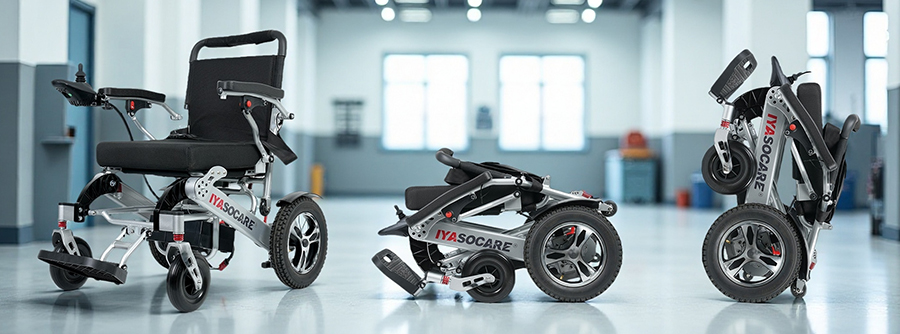
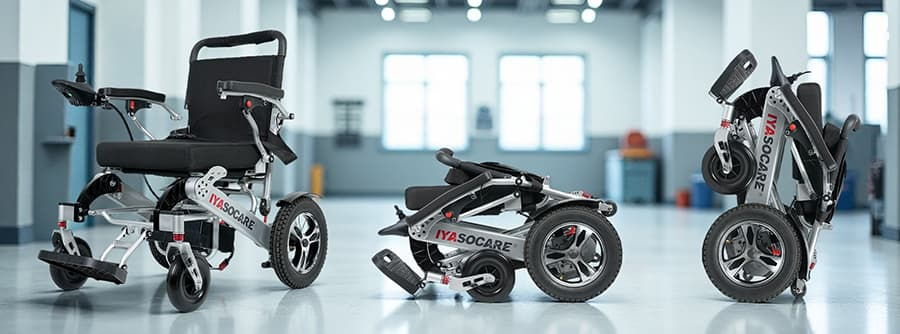
压缩图片

diff --git a/footer-.html b/footer-.html
@@ -1,0 +1,101 @@
+<div class="footer-area footer-bg">
+	<div class="container">
+		<div class="row">
+			<div class="col-lg-4 col-sm-6 mb-20-1199">
+				<div class="footer-inner">
+					<div class="flogo">
+						<a href="index.html"><img src="images/iyasocare.png" alt="logo"></a>
+					</div>
+					<p>Iyasocare delivers ISO/CE/TUV/CFS-certified ergonomic electric wheelchairs and mobility aids, providing OEM/ODM medical equipment to 80+ countries.</p>
+					<div class="footer-tags">
+						<h2>NAV</h2>
+						<a href="index.html">Home</a>
+						<a href="products.html">Products</a>
+						<a href="javascript:void(0);" target="_self">Services</a>
+						<a href="javascript:void(0);" target="_self">About Us</a>
+						<a href="javascript:void(0);" target="_self">News</a>
+						<span class="dis-non-1199"><a href="javascript:void(0);" target="_self">Blog</a></span>
+						<span class="dis-non-1199"><a href="javascript:void(0);" target="_self">Contact Us</a></span>
+					</div>
+				</div>
+			</div>
+			<div class="col-lg-2 col-sm-6 mb-20-1199">
+				<div class="f-location">
+					<h2><span>our</span> services</h2>
+					<ul class="f-location-links">
+						<li><a href="javascript:void(0);" target="_self">Choosing a doctor</a></li>
+						<li><a href="javascript:void(0);" target="_self">Primary medical care</a></li>
+						<li><a href="javascript:void(0);" target="_self">Discuss your doctor</a></li>
+						<li><a href="javascript:void(0);" target="_self">Client User Account</a></li>
+						<li><a href="javascript:void(0);" target="_self">Our Support Forum</a></li>
+						<li><a href="javascript:void(0);" target="_self">Our Help Center</a></li>
+					</ul>
+				</div>
+			</div>
+			<div class="col-lg-2 col-sm-6 mb-20-1199">
+				<div class="f-location">
+					<h2><span>Latest</span> News</h2>
+					<ul class="f-location-links">
+						<li><a href="javascript:void(0);" target="_self">Choosing a doctor</a></li>
+						<li><a href="javascript:void(0);" target="_self">Primary medical care</a></li>
+						<li><a href="javascript:void(0);" target="_self">Discuss your doctor</a></li>
+						<li><a href="javascript:void(0);" target="_self">Client User Account</a></li>
+						<li><a href="javascript:void(0);" target="_self">Our Support Forum</a></li>
+						<li><a href="javascript:void(0);" target="_self">Our Help Center</a></li>
+					</ul>
+				</div>
+			</div>
+			<div class="col-lg-4 col-sm-6 mb-20-1199">
+				<h2 class="mb-50"><span>Book</span> Appointment</h2>
+
+				<div class="appoinment-form appoinment-form-f zf-appoinment-form">
+					<div class="zf-form">
+						<div class="row">
+							<div class="zf-form-inputbox col-md-6">
+								<input type="text" name="name" placeholder="Full Name" id="zf-footer-name" maxlength="50" autocomplete="off" title="Please enter your name" required>
+								<div class="zf-tip zf-footer-name-tip"></div>
+							</div>
+							<div class="zf-form-inputbox col-md-6">
+								<input type="tel" name="tel" placeholder="Phone Number" id="zf-footer-tel" maxlength="20" autocomplete="off">
+								<div class="zf-tip zf-footer-tel-tip"></div>
+							</div>
+							<div class="zf-form-inputbox col-md-12">
+								<input type="email" name="email" placeholder="Email" id="zf-footer-email" maxlength="50" autocomplete="off" title="Please enter your email" required>
+								<div class="zf-tip zf-footer-email-tip"></div>
+							</div>
+							<div class="zf-form-inputbox col-md-12">
+								<textarea name="message" placeholder="Message" id="zf-footer-message" maxlength="1000" autocomplete="off"></textarea>
+								<div class="zf-tip zf-footer-message-tip"></div>
+							</div>
+						</div>
+						<input type="submit" name="submit" value="leave a message" id="zf-footer-button">
+						<div class="zf-tip zf-footer-check-tip"></div>
+					</div>
+					<div class="zf-sub-success zf-none zf-ajax-loader">
+						<div class="zf-sub-success-tip"></div>
+					</div>
+				</div>
+				<div class="zf-sub-error zf-none">
+					<div class="zf-sub-error-tip-box">
+						<div class="zf-sub-error-tip-close"></div>
+						<div class="zf-sub-error-tip-title">Tip:</div>
+						<div class="zf-sub-error-tip-icon"><i class="flaticon-zftip"></i></div>
+						<div class="zf-sub-error-tip">Oops! A tiny hiccup. Please check your entries or refresh to try again.</div>
+						<div class="zf-sub-error-contact-box">
+							Email us: 
+							<a href="mailto:sales@iyasocare.com?subject=Inquiry%20from%20iyasocare.cc&body=Hi%20Lily%20Miao%2C%0A%0AThis%20is%20" target="_self">
+							sales@iyasocare.com</a>;
+							<a href="https://wa.me/8618003386205?text=I%20am%20contacting%20from%20iyasocare.cc%20for%20inquiry" target="_self">WhatsApp</a>
+							/Call: <a href="tel:+8618003386205" target="_self">+86 18003386205</a>
+						</div>
+					</div>
+				</div>
+			</div>
+		</div>
+	</div>
+</div>
+<div class="footer-bottom">
+	<div class="container">
+		<p>© 2023 Chongqing Iyasocare Medical Co., Ltd. 重庆雅诗康医疗科技有限公司 版权所有</p>
+	</div>
+</div>

diff --git a/js/zf-load-footer.js b/js/zf-load-footer.js
@@ -1,17 +1,44 @@
-if (document.getElementById('zf-pro-footer-js')) {
-	fetch('../footer.html')
-		.then(response => response.text())
-		.then(html => {
-			document.getElementById('zf-pro-footer-js').innerHTML = html;
-		})
-		.catch(() => {});
-		// .catch(err => console.error('导航加载失败:', err));
-} else if (document.getElementById('zf-footer-js')) {
-	fetch('footer.html')
-		.then(response => response.text())
-		.then(html => {
-			document.getElementById('zf-footer-js').innerHTML = html;
-		})
-		.catch(() => {});
-		// .catch(err => console.error('导航加载失败:', err));
+function zfInsertFooter() {
+	const footerHtml = `
+		<div class="footer-bottom">
+			<div class="container">
+				<p>© 2025 Chongqing Iyasocare Medical Co., Ltd. 重庆雅诗康医疗科技有限公司 版权所有 MADE BY ZHAOFENG</p>
+			</div>
+		</div>
+	`;
+	
+	
+	if (document.getElementById('zf-pro-footer-js')) {
+		if (document.getElementById('zf-pro-footer-js').innerHTML.trim() == '') {
+			fetch('../footer.html')
+				.then(response => response.text())
+				.then(html => {
+					document.getElementById('zf-pro-footer-js').innerHTML = html;
+				})
+				// .catch(() => {});
+				.catch(
+					// err => console.error('导航加载失败:', err);
+					document.getElementById('zf-pro-footer-js').innerHTML = footerHtml;
+				);
+		}
+	} else if (document.getElementById('zf-footer-js')) {
+		if (document.getElementById('zf-footer-js').innerHTML.trim() == '') {
+			fetch('footer.html')
+				.then(response => response.text())
+				.then(html => {
+					document.getElementById('zf-footer-js').innerHTML = html;
+				})
+				// .catch(() => {});
+				.catch(
+					// err => console.error('导航加载失败:', err);
+					document.getElementById('zf-footer-js').innerHTML = footerHtml;
+				);
+		}
+	}
+	
 }
+
+zfInsertFooter();
+
+
+

diff --git a/js/script.js b/js/script.js
@@ -15,13 +15,12 @@
     /*------------------------------------------
         = HIDE PRELOADER
     -------------------------------------------*/
+	preloader();
     function preloader() {
         if($('.preloader').length) {
             $('.preloader').delay(100).fadeOut(500, function() {
-
                 //active wow
-                wow.init();
-
+                // wow.init();
             });
         }
     }
@@ -76,9 +75,9 @@
             $(".hero-slider").slick({
                 autoplay: true,
                 autoplaySpeed: 8000,
-                arrows: false,
-                prevArrow: '<i class="icofont-brand-jaguar slick-prev"></i>',
-                nextArrow: '<i class="icofont-long-arrow-right slick-next"></i>',
+                arrows: true,
+                prevArrow: '<i class="icofont icofont-long-arrow-left zf-slick-prev"></i>',
+                nextArrow: '<i class="icofont icofont-long-arrow-right zf-slick-next"></i>',
                 dots: false,
                 fade: true,
                 cssEase: 'linear',
@@ -493,7 +492,8 @@
     ==========================================================================*/
     $(window).on('load', function() {
 
-        preloader();
+        // preloader(); // 欢迎页，如果加载完成后再执行，有可能出问题移到最上边执行，但是将wow.init()动画拿过来执行
+		wow.init();
         sliderBgSetting();
         // robotoSlider();  // 未定义函数
 

diff --git a/js/zf-liuLiangHeLiuyan.js b/js/zf-liuLiangHeLiuyan.js
@@ -1,6 +1,15 @@
 $(function(){
 	
 	function zfLoadFooter() {
+		const footerHtml = `
+			<div class="footer-bottom">
+				<div class="container">
+					<p>© 2025 Chongqing Iyasocare Medical Co., Ltd. 重庆雅诗康医疗科技有限公司 版权所有 MADE BY ZHAOFENG</p>
+				</div>
+			</div>
+		`;
+		
+		
 		if (document.getElementById('zf-footer-js')) {
 			fetch('footer.html')
 				.then(response => response.text())
@@ -8,8 +17,10 @@ $(function(){
 					document.getElementById('zf-footer-js').innerHTML = html;
 					liuLiangHeLiuyan();
 				})
-				.catch(() => {});
-				// .catch(err => console.error('导航加载失败:', err));
+				.catch(() => {
+					document.getElementById('zf-footer-js').innerHTML = footerHtml;
+					liuLiangHeLiuyan();
+				});
 		} else if (document.getElementById('zf-pro-footer-js')) {
 			fetch('../footer.html')
 				.then(response => response.text())
@@ -17,8 +28,10 @@ $(function(){
 					document.getElementById('zf-pro-footer-js').innerHTML = html;
 					liuLiangHeLiuyan();
 				})
-				.catch(() => {});
-				// .catch(err => console.error('导航加载失败:', err));
+				.catch(() => {
+					document.getElementById('zf-pro-footer-js').innerHTML = footerHtml;
+					liuLiangHeLiuyan();
+				});
 		} 
 	}
 	

diff --git a/index.html b/index.html
@@ -308,7 +308,7 @@
 		<!-- Header end -->
 
 		 <!-- start of hero -->
-		<section class="hero hero-slider-wrapper p-0 hero-style-1">
+		<section class="hero hero-slider-wrapper p-0 hero-style-1 zf-banner-box">
 			<div class="hero-slider">
 				<!-- banner 1 -->
 				<div class="slide">
